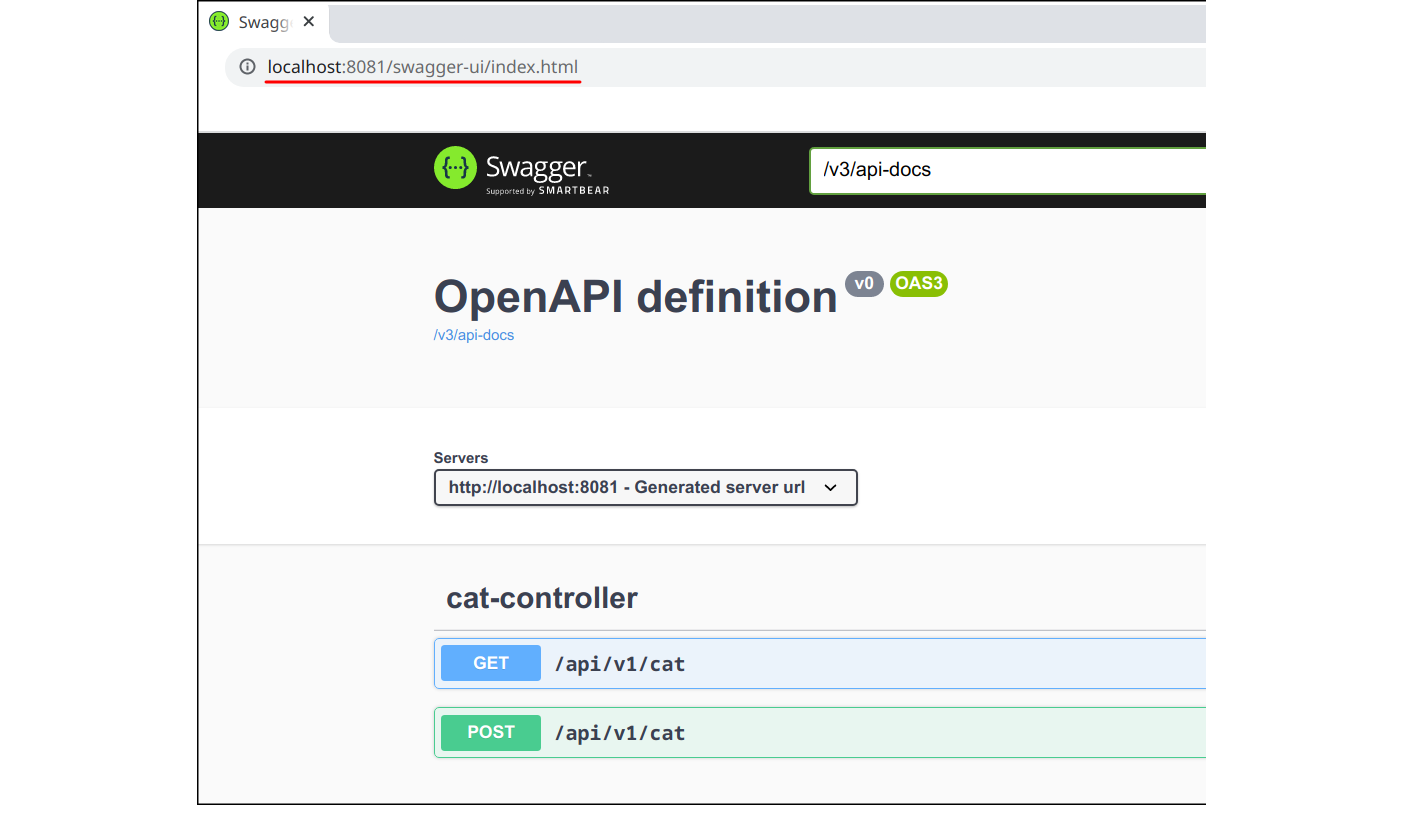
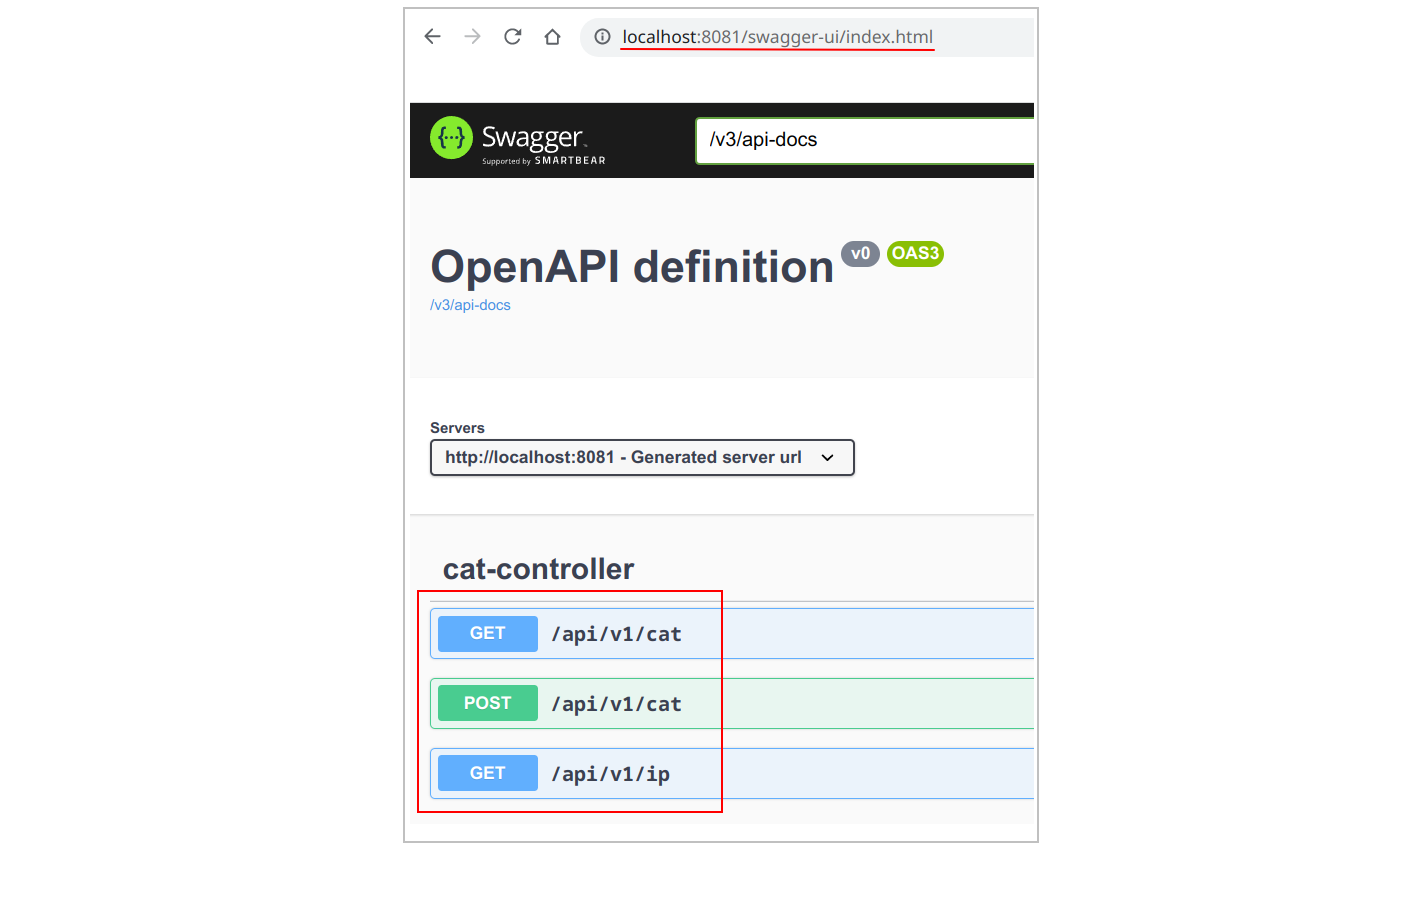
update 30

Changed region(s): [[0.1245, 0.0, 0.8713, 0.4227], [0.2801, 0.4529, 0.7468, 0.936], [0.7157, 0.9058, 0.7468, 0.936]]

diff --git a/README.md b/README.md
@@ -20,7 +20,9 @@
 - Для документирования REST API используем **Springdoc OpenAPI UI**. Для этого нужно добавить зависимость:  
   ![](https://github.com/aleksey-nsk/cats-api/blob/master/screenshots/03_springdoc.png)
 
-Открываем приложение (список всех котиков) по адресу: http://localhost:8081/api/v1/cat
+Открываем приложение (список всех котиков) по адресу: http://localhost:8081/api/v1/cat  
+
+Текущий IP адресс: http://localhost:8081/api/v1/ip => **127.0.1.1**  
 
 Документация к API доступна по адресу: http://localhost:8081/swagger-ui/index.html. Тут же можно тестировать конечные
 точки (кнопка "**Try it out**"):  
